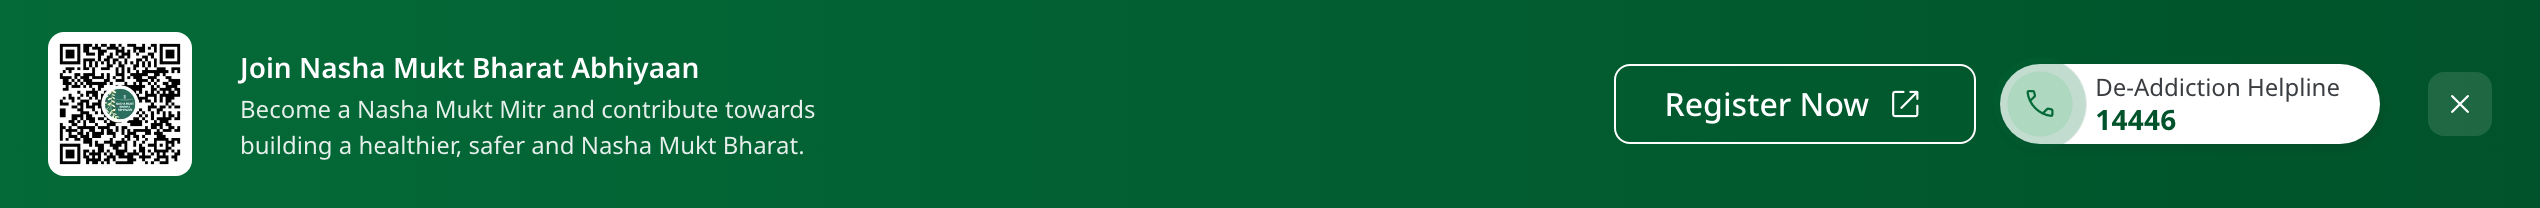
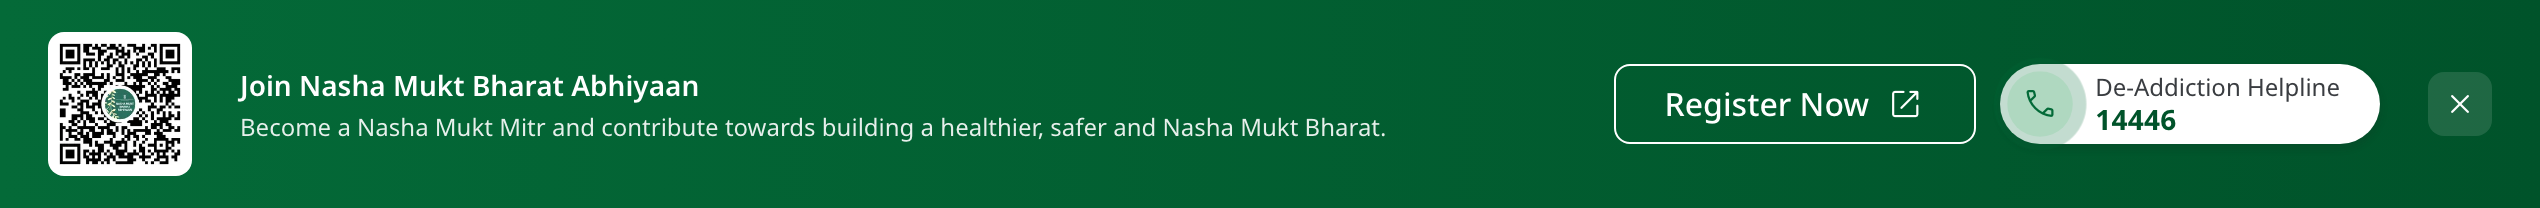
fix(nmba): the blank space was a 44ch cap, and it uncovered a tablet overflow older than this branch
THE GAP. `.xband__text` carried `max-inline-size: 44ch` — about 288px — from
when the copy sat in a narrow column. On a 663px cell it wrapped the sentence to
two lines while 375px of its own cell stayed empty, and left a 399px hole
between the message and the buttons. A measure cap protects reading; this is one
strapline met once, and the grid already caps it between a 72px code and the
controls. Cap gone: one line, 573px, dead space down to 114.

THE PAIR GRID NEVER STACKED. Its four columns were declared at every width, so
below the one-row breakpoint the copy kept a 1fr cell while the controls kept
their intrinsic widths — at 768 the sentence got 111px, six lines and a 205px
band. Every cell names its own row and column below 1024 now.

AND THE NAV HAS BEEN OVERFLOWING AT TABLET SINCE BEFORE THIS BRANCH. The compact
inline nav turned on at 768 while the hub's list needs 577px beside a 300px
lockup. Binary-searched at 768: four items fit, five pushed the document to 781,
six to 893. So it broke when the FIFTH entry landed; adding Explorations made it
112px worse and is how it was found, not what caused it.

The breakpoint moves to 1024, together with the drawer trigger's, which has
always been hidden at exactly the same width — so there is never a band where
both or neither appears. Verified at 390, 768, 900, 1024 and 1440 on two hub
pages: no horizontal scroll anywhere, and exactly one navigation form at each.

Changed region(s): [[0.0933, 0.2596, 0.5598, 0.75]]

diff --git a/apps/hub/src/components/explorations/nmba/campaign-band.css b/apps/hub/src/components/explorations/nmba/campaign-band.css
@@ -329,10 +329,25 @@
     font-weight: var(--sa-font-weight-semibold);
   }
 
+  /*
+   * NO MEASURE CAP IN THIS BAND, AND THE CAP WAS THE BLANK SPACE.
+   *
+   * `max-inline-size: 44ch` — about 288px at 14px — was carried over from when
+   * the copy sat in a narrow column. On a 663px cell it made the sentence wrap
+   * to two lines while 375px of its OWN cell stayed empty, and the gap between
+   * the message and the buttons measured 399px. The band looked unbalanced
+   * because a third of the row was a hole, and the hole was being held open by a
+   * rule meant to prevent long lines.
+   *
+   * A measure cap protects READING. This is one strapline, met once, above the
+   * page it introduces — and the grid already caps it: the cell is `1fr` between
+   * a 72px code and the controls, so it can never run the full container width.
+   * That is the right constraint here, and it is a real one.
+   */
   .xband__text {
     font-size: var(--sa-type-body-3-size);
-    max-inline-size: 44ch;
     opacity: 0.9;
+    text-wrap: pretty;
   }
 
   .xband__join {
@@ -581,7 +596,81 @@
     background-color: var(--sa-text-neutral-inverse);
   }
 
+  /*
+   * ── BELOW 1024 ──────────────────────────────────────────────────────────
+   *
+   * The five- and four-column rows were declared at EVERY width, so below the
+   * one-row breakpoint the copy kept a `1fr` cell while the controls kept their
+   * intrinsic widths — and at 768 that left the sentence 111px, six lines, a
+   * 205px band and a page that scrolled sideways. Measured, not guessed: the
+   * document's scrollWidth was 894 against a 768 viewport.
+   *
+   * Every cell names its own row and column here, because auto-placement beside
+   * explicitly placed siblings is how the ribbon's dismiss once ended up left of
+   * the mark it was supposed to follow.
+   */
+  @media (max-width: 1023px) {
+    .xband__inner,
+    .xband__inner--pair {
+      grid-template-columns: auto minmax(0, 1fr) auto;
+      row-gap: var(--sa-stack-12);
+      align-items: center;
+    }
+
+    .xband__qr {
+      grid-row: 1;
+      grid-column: 1;
+    }
+
+    .xband__copy {
+      grid-row: 1;
+      grid-column: 2;
+    }
+
+    .xband__dismiss {
+      grid-row: 1;
+      grid-column: 3;
+      align-self: start;
+    }
+
+    .xband__pair {
+      grid-row: 2;
+      grid-column: 1 / -1;
+    }
+
+    .xband__inner:not(.xband__inner--pair) .xband__cta {
+      grid-row: 2;
+      grid-column: 1 / -1;
+    }
+
+    .xband__inner:not(.xband__inner--pair) .xhc--band {
+      grid-row: 3;
+      grid-column: 1 / -1;
+      margin-inline-start: 0;
+    }
+  }
+
   @media (max-width: 767px) {
+    /* The code goes: a reader on a phone is holding the device that would scan
+       it, and the same destination is a full-width button directly below. This
+       is what production does at the same breakpoint. */
+    .xband__qr {
+      display: none;
+    }
+
+    .xband__copy {
+      grid-column: 1 / 3;
+    }
+
+    .xband__pair {
+      flex-direction: column;
+      align-items: stretch;
+    }
+
+    .xband__pair > * {
+      justify-content: center;
+    }
+
 
     /* On a narrow band the mark and the badge stop being one row: a 100px mark
        beside a pill leaves the title nowhere to go. */
@@ -762,7 +851,81 @@
     background-color: color-mix(in srgb, var(--sa-text-neutral-inverse) 24%, transparent);
   }
 
+  /*
+   * ── BELOW 1024 ──────────────────────────────────────────────────────────
+   *
+   * The five- and four-column rows were declared at EVERY width, so below the
+   * one-row breakpoint the copy kept a `1fr` cell while the controls kept their
+   * intrinsic widths — and at 768 that left the sentence 111px, six lines, a
+   * 205px band and a page that scrolled sideways. Measured, not guessed: the
+   * document's scrollWidth was 894 against a 768 viewport.
+   *
+   * Every cell names its own row and column here, because auto-placement beside
+   * explicitly placed siblings is how the ribbon's dismiss once ended up left of
+   * the mark it was supposed to follow.
+   */
+  @media (max-width: 1023px) {
+    .xband__inner,
+    .xband__inner--pair {
+      grid-template-columns: auto minmax(0, 1fr) auto;
+      row-gap: var(--sa-stack-12);
+      align-items: center;
+    }
+
+    .xband__qr {
+      grid-row: 1;
+      grid-column: 1;
+    }
+
+    .xband__copy {
+      grid-row: 1;
+      grid-column: 2;
+    }
+
+    .xband__dismiss {
+      grid-row: 1;
+      grid-column: 3;
+      align-self: start;
+    }
+
+    .xband__pair {
+      grid-row: 2;
+      grid-column: 1 / -1;
+    }
+
+    .xband__inner:not(.xband__inner--pair) .xband__cta {
+      grid-row: 2;
+      grid-column: 1 / -1;
+    }
+
+    .xband__inner:not(.xband__inner--pair) .xhc--band {
+      grid-row: 3;
+      grid-column: 1 / -1;
+      margin-inline-start: 0;
+    }
+  }
+
   @media (max-width: 767px) {
+    /* The code goes: a reader on a phone is holding the device that would scan
+       it, and the same destination is a full-width button directly below. This
+       is what production does at the same breakpoint. */
+    .xband__qr {
+      display: none;
+    }
+
+    .xband__copy {
+      grid-column: 1 / 3;
+    }
+
+    .xband__pair {
+      flex-direction: column;
+      align-items: stretch;
+    }
+
+    .xband__pair > * {
+      justify-content: center;
+    }
+
     .xnudge__inner {
       grid-template-columns: minmax(0, 1fr) auto;
     }

diff --git a/packages/design-system/components/navigation/header/header.css b/packages/design-system/components/navigation/header/header.css
@@ -1497,7 +1497,22 @@
     background: transparent;
   }
 
-  @media (min-width: 768px) {
+  /*
+   * 1024, NOT 768 — MEASURED, and it was wrong before the nav grew.
+   *
+   * The inline nav turned on at 768 and the hub's list needs 577px beside a
+   * ~300px lockup. Binary-searched at a 768 viewport: FOUR items fit, five
+   * pushed the document to 781, and six to 893. So the compact bar had been
+   * scrolling sideways at tablet since the fifth entry landed — adding
+   * "Explorations" as a sixth made it 112px worse and is how it was found, not
+   * what caused it.
+   *
+   * The drawer below this breakpoint is not a fallback invented for this fix:
+   * it is the same SheetToggle the mobile masthead has always shown, and the
+   * rule beneath this one has always hidden it at exactly the same width. The
+   * two move together, so there is never a band where both or neither appears.
+   */
+  @media (min-width: 1024px) {
     .ds-hdr-nav.is-inline {
       display: block;
     }
@@ -1517,7 +1532,8 @@
      masthead moved away from; it survived only because the compact variant was added
      after that pass and has no Figma master to check against. It has one now
      (Navbar/Compact, Device=Mobile), and it shows the 48px SheetToggle. */
-  @media (min-width: 768px) {
+  /* Moves with the inline nav's breakpoint above — see the note there. */
+  @media (min-width: 1024px) {
     .ds-hdr[data-variant="compact"] .ds-hdr-burger {
       display: none;
     }

diff --git a/docs/audit/nmba-page-audit-2026-09-08.md b/docs/audit/nmba-page-audit-2026-09-08.md
@@ -730,3 +730,65 @@ campaign action and a permanent one. Recorded on the option rather than resolved
 in it.
 
 Stills: `opt-ctas-right.png`, `opt-ctas-below.png`, `flight-frames.png`.
+
+---
+
+## 14. The blank space, and the tablet overflow it uncovered
+
+### 14.1 The gap was a measure cap, not a layout problem
+
+Measured at 1440 on the CTAs-right option:
+
+| | |
+|---|---|
+| Copy cell | **663px** |
+| Sentence ink | **288px**, over 2 lines |
+| Gap between the sentence and the buttons | **399px** |
+
+`.xband__text` carried `max-inline-size: 44ch` — about 288px at 14px — inherited
+from when the copy sat in a narrow column. On a 663px cell it wrapped the
+sentence to two lines while **375px of its own cell stayed empty**, and the band
+looked unbalanced because a third of the row was a hole held open by a rule meant
+to prevent long lines.
+
+A measure cap protects *reading*. This is one strapline, met once, above the page
+it introduces — and the grid already caps it: the cell is `1fr` between a 72px
+code and the controls, so it can never run the full container width. That is the
+right constraint, and it is a real one.
+
+| | Before | After |
+|---|---|---|
+| Sentence | 2 lines, 288px | **1 line, 573px** |
+| Dead space | 399px | **114px** |
+| Copy block height | 59px | 41px |
+
+At 1280 it returns to two lines and at 390 to three, which is the grid doing the
+capping.
+
+### 14.2 Two regressions the measurement then exposed
+
+**The pair grid never stacked.** `.xband__inner--pair` declared its four columns
+at *every* width, so below the one-row breakpoint the copy kept a `1fr` cell
+while the controls kept their intrinsic widths: at 768 the sentence got **111px,
+six lines and a 205px band**. Every cell now names its own row and column below
+1024, and the code is dropped below 768 as production does.
+
+**The hub's inline nav had been overflowing at tablet since before this work.**
+`ds-hdr-nav.is-inline` turned on at `min-width: 768px`, and the hub's list needs
+577px beside a ~300px lockup. Binary-searched at a 768 viewport:
+
+| Items | Document width |
+|---|---|
+| 4 | 768 — fits |
+| **5** | **781 — overflows** |
+| 6 | 893 |
+
+So the compact bar had been scrolling sideways at tablet since the *fifth* entry
+landed. Adding "Explorations" as a sixth made it 112px worse and is how it was
+found, not what caused it. The breakpoint moves to **1024** — together with the
+drawer trigger's, which has always been hidden at exactly the same width, so
+there is never a band where both or neither appears.
+
+Verified at 390, 768, 900, 1024 and 1440 on `/reports` and `/explorations`: no
+horizontal scroll at any of them, and exactly one of the two navigation forms
+present at each.
